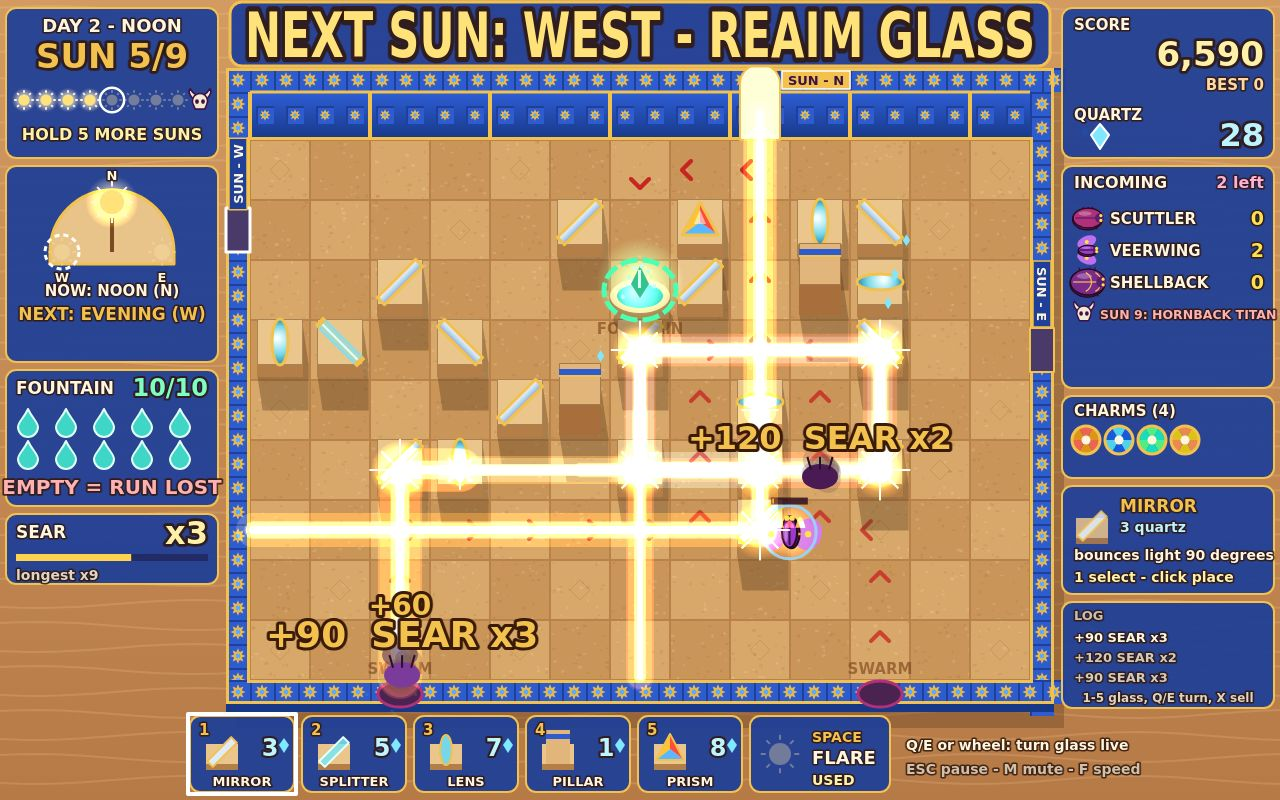
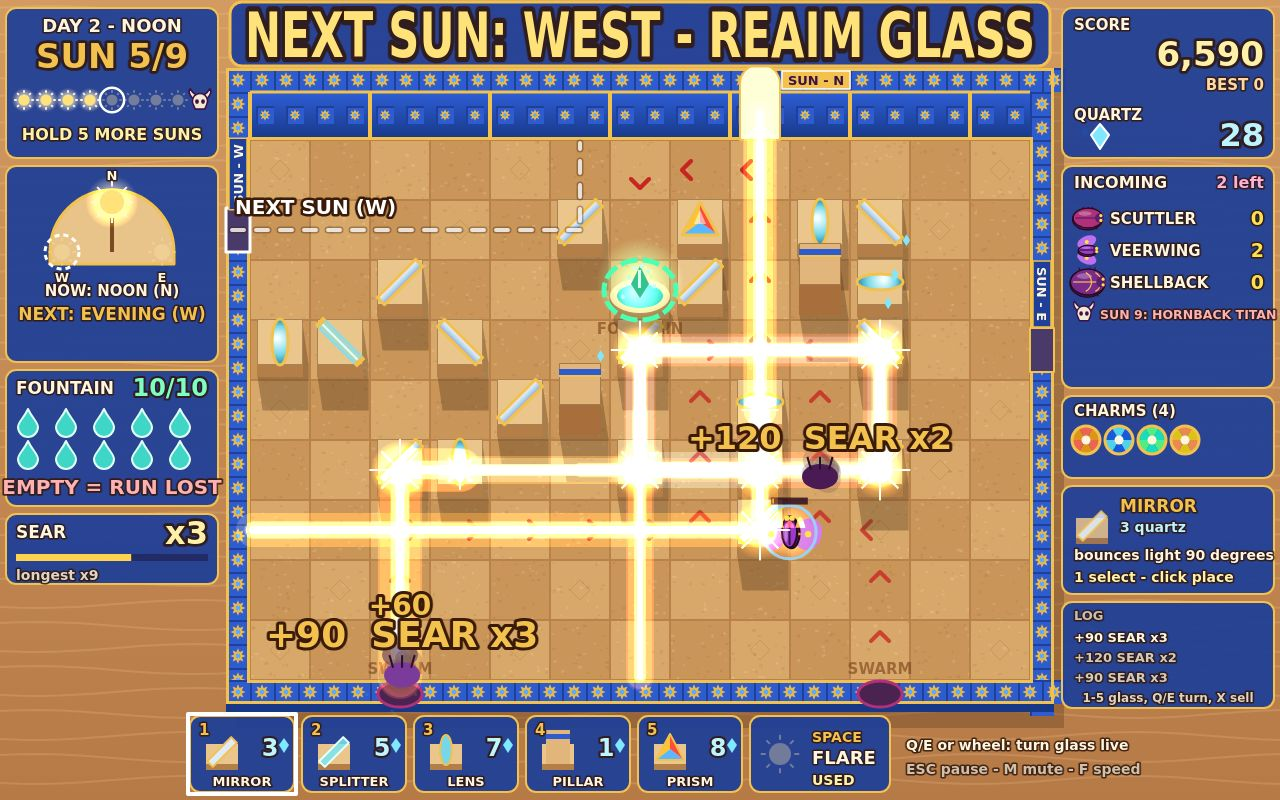
Cover sun ghost: the next sun's beam through today's glass as a faint dashed line labelled NEXT SUN (W)

Changed region(s): [[0.1562, 0.1875, 0.4688, 0.3125]]

diff --git a/game/src/render/scene.js b/game/src/render/scene.js
@@ -1,8 +1,10 @@
 // One frame of the game: courtyard, glass, shrine, beetles, light, effects, then the HUD.
 // The draft dims the board so the new opening's beam (through the current layout) stands out;
 // a win floods the courtyard with sunrise, a defeat drains the light.
-import { shadowVectorFor } from '../sun.js';
-import { drawBeamGhost, drawBeams, drawFx, drawScreenFx, shakeOffset } from './fx.js';
+import { shadowVectorFor, sunApertureFor } from '../sun.js';
+import { drawBeamGhost, drawBeams, drawFx, drawNextSunGhost, drawScreenFx, shakeOffset } from './fx.js';
+import { beamModsFor, traceBeams } from '../beams.js';
+import { NAMES, WAVE_COUNT } from '../config.js';
 import { routeCells } from '../pathing.js';
 import { drawCourtyard, drawMarchLines, drawPiece, drawPieces, drawShrine } from './board.js';
 import { drawEnemies } from './beetles.js';
@@ -23,6 +25,19 @@ function drawCellCursor(ctx, cell, ok) {
     ctx.lineTo(x + 16, y + CELL - 16);
     ctx.stroke();
   }
+}
+
+const nextCache = { run: null, version: -1, value: null };
+
+/** The next sun's beam through the current glass, re-traced only when the layout changes. */
+function nextSunTrace(run) {
+  if (nextCache.run !== run || nextCache.version !== run.layoutVersion) {
+    const ap = sunApertureFor(run.seed, run.waveIndex + 1);
+    nextCache.value = { trace: traceBeams(run.grid, ap, beamModsFor(run.boons)), wall: ap.phase.wallName[0] };
+    nextCache.run = run;
+    nextCache.version = run.layoutVersion;
+  }
+  return nextCache.value;
 }
 
 function drawSunrise(ctx, time, since) {
@@ -68,6 +83,10 @@ export function drawFrame(ctx, frame) {
     const onPath = new Set(routeCells(run.grid, run.flow).filter((i) => run.trace.lit[i] > 0)).size;
     drawBeamGhost(ctx, run.trace, onPath, time);
   } else if (phase !== 'lost') {
+    if (frame.showHud && (phase === 'wave' || phase === 'build') && run.waveIndex + 1 < WAVE_COUNT) {
+      const next = nextSunTrace(run);
+      drawNextSunGhost(ctx, next.trace, `NEXT ${NAMES.sun} (${next.wall})`, time);
+    }
     const alpha = phase === 'wave' || phase === 'won' ? 1 : phase === 'build' ? 0.8 : 0.95;
     drawBeams(ctx, ui.ghostTrace ?? run.trace, { alpha, flare: run.flareLeft > 0 ? 1 : 0, time });
   }

diff --git a/game/src/render/fx.js b/game/src/render/fx.js
@@ -209,6 +209,38 @@ export function drawBeamGhost(ctx, trace, pathCellsLit, time) {
   ctx.restore();
 }
 
+/** The next sun's light through today's glass: a faint white dashed line labelled at its window. */
+export function drawNextSunGhost(ctx, trace, label, time) {
+  if (!trace.legs.length) return;
+  ctx.save();
+  ctx.lineCap = 'round';
+  ctx.setLineDash([12, 12]);
+  ctx.lineDashOffset = -time * 30;
+  for (const [width, stroke] of [[7, 'rgba(60,30,10,0.35)'], [4, 'rgba(255,255,255,0.8)']]) {
+    ctx.lineWidth = width;
+    ctx.strokeStyle = stroke;
+    for (const leg of trace.legs) {
+      ctx.beginPath();
+      ctx.moveTo(toScreenX(leg.x0), toScreenY(leg.y0));
+      ctx.lineTo(toScreenX(leg.x1), toScreenY(leg.y1));
+      ctx.stroke();
+    }
+  }
+  ctx.setLineDash([]);
+  const start = trace.legs[0];
+  const x = toScreenX(start.x0) + (start.x1 > start.x0 ? 12 : start.x1 < start.x0 ? -12 : 0);
+  const y = toScreenY(start.y0) + (start.y1 > start.y0 ? 40 : -16);
+  ctx.font = '900 20px system-ui, sans-serif';
+  ctx.textAlign = start.x1 < start.x0 ? 'right' : start.x1 > start.x0 ? 'left' : 'center';
+  ctx.lineJoin = 'round';
+  ctx.lineWidth = 5;
+  ctx.strokeStyle = '#3A1A08';
+  ctx.strokeText(label, x, y);
+  ctx.fillStyle = '#FFFFFF';
+  ctx.fillText(label, x, y);
+  ctx.restore();
+}
+
 /** Particles and floating text, drawn above the board. */
 export function drawFx(ctx, fx) {
   for (const p of fx.particles) {
